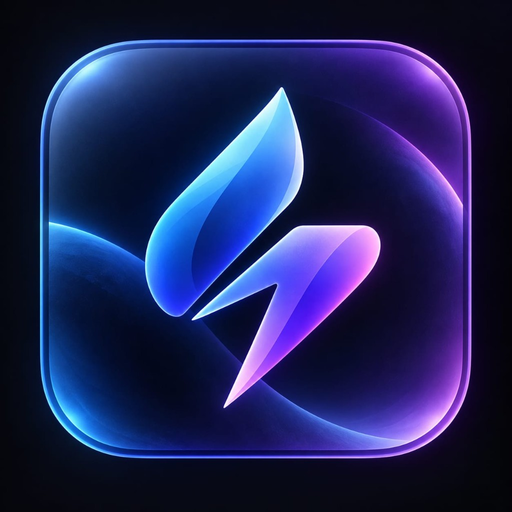
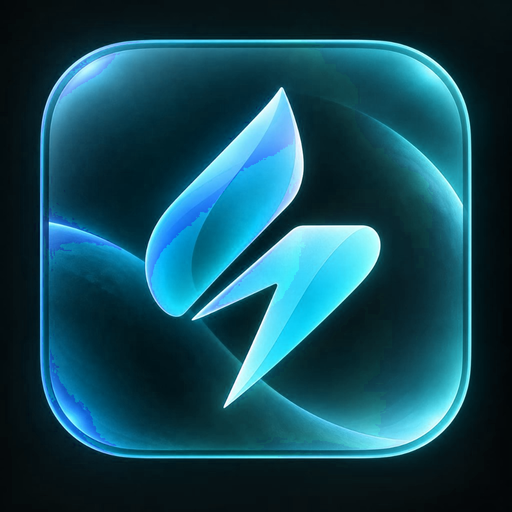
Keep button labels sharp under the hover cursor and switch branding to cyan/aqua.

diff --git a/components/react-bits/ghost-cursor.tsx b/components/react-bits/ghost-cursor.tsx
@@ -93,36 +93,45 @@ export function GhostCursor() {
       const hover = hoveredControl(tx, ty)
 
       if (hover) {
-        x += (hover.cx - x) * 0.55
-        y += (hover.cy - y) * 0.55
+        x = hover.cx
+        y = hover.cy
+        attached = 1
         hover.el.dataset.magnetActive = "true"
       } else {
         x += (tx - x) * 0.38
         y += (ty - y) * 0.38
+        attached += (0 - attached) * 0.42
       }
       for (const node of document.querySelectorAll("[data-magnetic]")) {
         if (node !== hover?.el) delete (node as HTMLElement).dataset.magnetActive
       }
 
-      attached += ((hover ? 1 : 0) - attached) * 0.42
-
       cursor.style.transform = `translate3d(${x}px, ${y}px, 0)`
       cursor.style.opacity = visible ? "1" : "0"
 
       const ringScale = (1 - attached * 0.85) * (pressed ? 0.92 : 1)
-      ring.style.opacity = String(Math.max(0, 1 - attached * 1.8))
+      ring.style.opacity = hover ? "0" : "1"
       ring.style.transform = `translate(-50%, -50%) scale(${ringScale})`
 
       const targetW = hover ? hover.w + 10 : 22
       const targetH = hover ? hover.h + 10 : 22
       const targetRadius = hover ? hover.radius : 11
-      envW += (targetW - envW) * 0.48
-      envH += (targetH - envH) * 0.48
-      envRadius += (targetRadius - envRadius) * 0.48
+      if (hover) {
+        envW = targetW
+        envH = targetH
+        envRadius = targetRadius
+      } else {
+        envW += (targetW - envW) * 0.48
+        envH += (targetH - envH) * 0.48
+        envRadius += (targetRadius - envRadius) * 0.48
+      }
       envelope.style.width = `${envW}px`
       envelope.style.height = `${envH}px`
       envelope.style.borderRadius = `${envRadius}px`
-      envelope.style.opacity = hover ? "1" : String(Math.max(0, attached - 0.35) * 1.8)
+      envelope.style.background = "transparent"
+      envelope.style.backdropFilter = "none"
+      envelope.style.setProperty("-webkit-backdrop-filter", "none")
+      envelope.style.opacity = hover ? "1" : "0"
       envelope.style.transform = `translate(-50%, -50%) scale(${pressed && hover ? 0.98 : 1})`
 
       frame = requestAnimationFrame(tick)

diff --git a/public/sw.js b/public/sw.js
@@ -2,21 +2,24 @@ const SHELL = [
   "/",
   "/favicon.ico",
   "/apple-touch-icon.png",
+  "/icons/favicon-16.png",
   "/icons/favicon-32.png",
+  "/icons/favicon-48.png",
   "/icons/icon-192.png",
   "/icons/icon-512.png",
 ]
+const CACHE = "flashdrop-shell-v3"
 
 self.addEventListener("install", (event) => {
   event.waitUntil(
-    caches.open("flashdrop-shell-v2").then((cache) => cache.addAll(SHELL)).then(() => self.skipWaiting())
+    caches.open(CACHE).then((cache) => cache.addAll(SHELL)).then(() => self.skipWaiting())
   )
 })
 
 self.addEventListener("activate", (event) => {
   event.waitUntil(
     caches.keys().then((keys) =>
-      Promise.all(keys.filter((key) => key !== "flashdrop-shell-v2").map((key) => caches.delete(key)))
+      Promise.all(keys.filter((key) => key !== CACHE).map((key) => caches.delete(key)))
     ).then(() => self.clients.claim())
   )
 })
@@ -42,7 +45,7 @@ self.addEventListener("fetch", (event) => {
       .then((response) => {
         if (response.ok && request.destination !== "document") {
           const copy = response.clone()
-          caches.open("flashdrop-shell-v2").then((cache) => cache.put(request, copy)).catch(() => undefined)
+          caches.open(CACHE).then((cache) => cache.put(request, copy)).catch(() => undefined)
         }
         return response
       })

diff --git a/app/globals.css b/app/globals.css
@@ -195,10 +195,12 @@
   width: 22px;
   height: 22px;
   border-radius: 999px;
-  border: 1px solid oklch(0.84 0.008 220 / 0.82);
-  background: oklch(0.78 0.01 220 / 0.34);
-  box-shadow: 0 0 16px oklch(0.8 0.01 220 / 0.28);
-  backdrop-filter: blur(8px);
+  border: 1px solid oklch(0.84 0.012 210 / 0.86);
+  background: oklch(0.8 0.01 210 / 0.28);
+  box-shadow: 0 0 14px oklch(0.82 0.02 200 / 0.28);
+  backdrop-filter: none;
+  -webkit-backdrop-filter: none;
+  filter: none;
 }
 
 .flashdrop-ghost-envelope {
@@ -206,17 +208,16 @@
   left: 0;
   top: 0;
   pointer-events: none;
-  border: 1px solid oklch(0.86 0.01 220 / 0.55);
-  background: oklch(0.8 0.01 220 / 0.1);
+  background: transparent;
+  background-image: none;
+  border: 1.5px solid oklch(0.84 0.04 192 / 0.72);
   box-shadow:
-    0 0 0 1px oklch(1 0 0 / 0.06) inset,
-    0 8px 22px oklch(0.2 0.02 220 / 0.18);
-  backdrop-filter: blur(10px);
+    0 0 0 1px oklch(1 0 0 / 0.1),
+    0 0 16px oklch(0.72 0.06 192 / 0.28);
   opacity: 0;
-}
-
-.flashdrop-brand-mark {
-  filter: hue-rotate(-78deg) saturate(1.12) brightness(1.04);
+  backdrop-filter: none;
+  -webkit-backdrop-filter: none;
+  filter: none;
 }
 
 html.has-ghost-cursor, html.has-ghost-cursor * {

diff --git a/app/layout.tsx b/app/layout.tsx
@@ -45,7 +45,9 @@ export const metadata: Metadata = {
   icons: {
     icon: [
       { url: "/favicon.ico", sizes: "any" },
+      { url: "/icons/favicon-16.png", sizes: "16x16", type: "image/png" },
       { url: "/icons/favicon-32.png", sizes: "32x32", type: "image/png" },
+      { url: "/icons/favicon-48.png", sizes: "48x48", type: "image/png" },
       { url: "/icons/icon-192.png", sizes: "192x192", type: "image/png" },
       { url: "/icons/icon-512.png", sizes: "512x512", type: "image/png" },
     ],

diff --git a/app/manifest.ts b/app/manifest.ts
@@ -10,8 +10,8 @@ export default function manifest(): MetadataRoute.Manifest {
     start_url: "/",
     scope: "/",
     display: "standalone",
-    background_color: "#05060f",
-    theme_color: "#090b14",
+    background_color: "#04080d",
+    theme_color: "#04080d",
     icons: [
       {
         src: "/icons/icon-192.png",

diff --git a/components/site-shell.tsx b/components/site-shell.tsx
@@ -16,7 +16,7 @@ export function BrandMark({
       alt=""
       width={size}
       height={size}
-      className={cn("flashdrop-brand-mark rounded-[22%] object-cover", className)}
+      className={cn("rounded-[22%] object-cover", className)}
       draggable={false}
     />
   )

diff --git a/scripts/recolor-logo.py b/scripts/recolor-logo.py
@@ -1,0 +1,113 @@
+#!/usr/bin/env python3
+"""Recolor Flashdrop artwork to cyan/aqua and regenerate icon sizes."""
+
+from __future__ import annotations
+
+import colorsys
+from pathlib import Path
+
+from PIL import Image
+
+ROOT = Path(__file__).resolve().parents[1]
+SOURCE = ROOT / "public" / "brand" / "flashdrop-logo.png"
+
+
+def map_hue(hue: float, sat: float) -> float:
+    if sat <= 0.07:
+        return hue
+    if hue >= 245 or hue <= 28:
+        if hue >= 245:
+            t = min(1.0, (hue - 245.0) / 115.0)
+            return 192.0 - t * 24.0
+        return 172.0
+    if 215 <= hue < 245:
+        t = (hue - 215.0) / 30.0
+        return 198.0 - t * 14.0
+    return hue
+
+
+def recolor(image: Image.Image) -> Image.Image:
+    rgba = image.convert("RGBA")
+    pixels = rgba.load()
+    width, height = rgba.size
+    for y in range(height):
+        for x in range(width):
+            r, g, b, a = pixels[x, y]
+            if a == 0:
+                continue
+            h, s, v = colorsys.rgb_to_hsv(r / 255.0, g / 255.0, b / 255.0)
+            hue = map_hue(h * 360.0, s)
+            if 160 <= hue <= 200:
+                s = min(1.0, s * 1.06)
+            nr, ng, nb = colorsys.hsv_to_rgb((hue / 360.0) % 1.0, s, v)
+            pixels[x, y] = (int(nr * 255), int(ng * 255), int(nb * 255), a)
+    return rgba
+
+
+def content_bbox(image: Image.Image, threshold: int = 16) -> tuple[int, int, int, int]:
+    rgba = image.convert("RGBA")
+    pixels = rgba.load()
+    width, height = rgba.size
+    left, top, right, bottom = width, height, 0, 0
+    found = False
+    for y in range(height):
+        for x in range(width):
+            r, g, b, a = pixels[x, y]
+            if a > 12 and max(r, g, b) > threshold:
+                found = True
+                if x < left:
+                    left = x
+                if y < top:
+                    top = y
+                if x > right:
+                    right = x
+                if y > bottom:
+                    bottom = y
+    if not found:
+        return (0, 0, width, height)
+    pad = max(2, int(min(width, height) * 0.03))
+    return (
+        max(0, left - pad),
+        max(0, top - pad),
+        min(width, right + 1 + pad),
+        min(height, bottom + 1 + pad),
+    )
+
+
+def resize_square(image: Image.Image, size: int) -> Image.Image:
+    return image.resize((size, size), Image.Resampling.LANCZOS)
+
+
+def save(image: Image.Image, path: Path) -> None:
+    path.parent.mkdir(parents=True, exist_ok=True)
+    image.save(path, "PNG", optimize=True)
+
+
+def main() -> None:
+    colored = recolor(Image.open(SOURCE))
+    save(colored, SOURCE)
+    tight = colored.crop(content_bbox(colored))
+
+    save(resize_square(colored, 512), ROOT / "public" / "icons" / "icon-512.png")
+    save(resize_square(colored, 192), ROOT / "public" / "icons" / "icon-192.png")
+    save(resize_square(colored, 180), ROOT / "public" / "icons" / "icon-180.png")
+    save(resize_square(colored, 180), ROOT / "public" / "apple-touch-icon.png")
+    save(resize_square(colored, 180), ROOT / "app" / "apple-icon.png")
+    save(resize_square(colored, 128), ROOT / "public" / "icons" / "icon-128.png")
+    save(resize_square(colored, 512), ROOT / "app" / "icon.png")
+
+    fav48 = resize_square(tight, 48)
+    fav32 = resize_square(tight, 32)
+    fav16 = resize_square(tight, 16)
+    save(fav48, ROOT / "public" / "icons" / "favicon-48.png")
+    save(fav32, ROOT / "public" / "icons" / "favicon-32.png")
+    save(fav16, ROOT / "public" / "icons" / "favicon-16.png")
+    fav48.save(ROOT / "public" / "favicon.ico", format="ICO", sizes=[(16, 16), (32, 32), (48, 48)])
+
+    for relative in ("public/og.png", "app/opengraph-image.png", "app/twitter-image.png"):
+        path = ROOT / relative
+        save(recolor(Image.open(path)), path)
+
+
+if __name__ == "__main__":
+    main()
